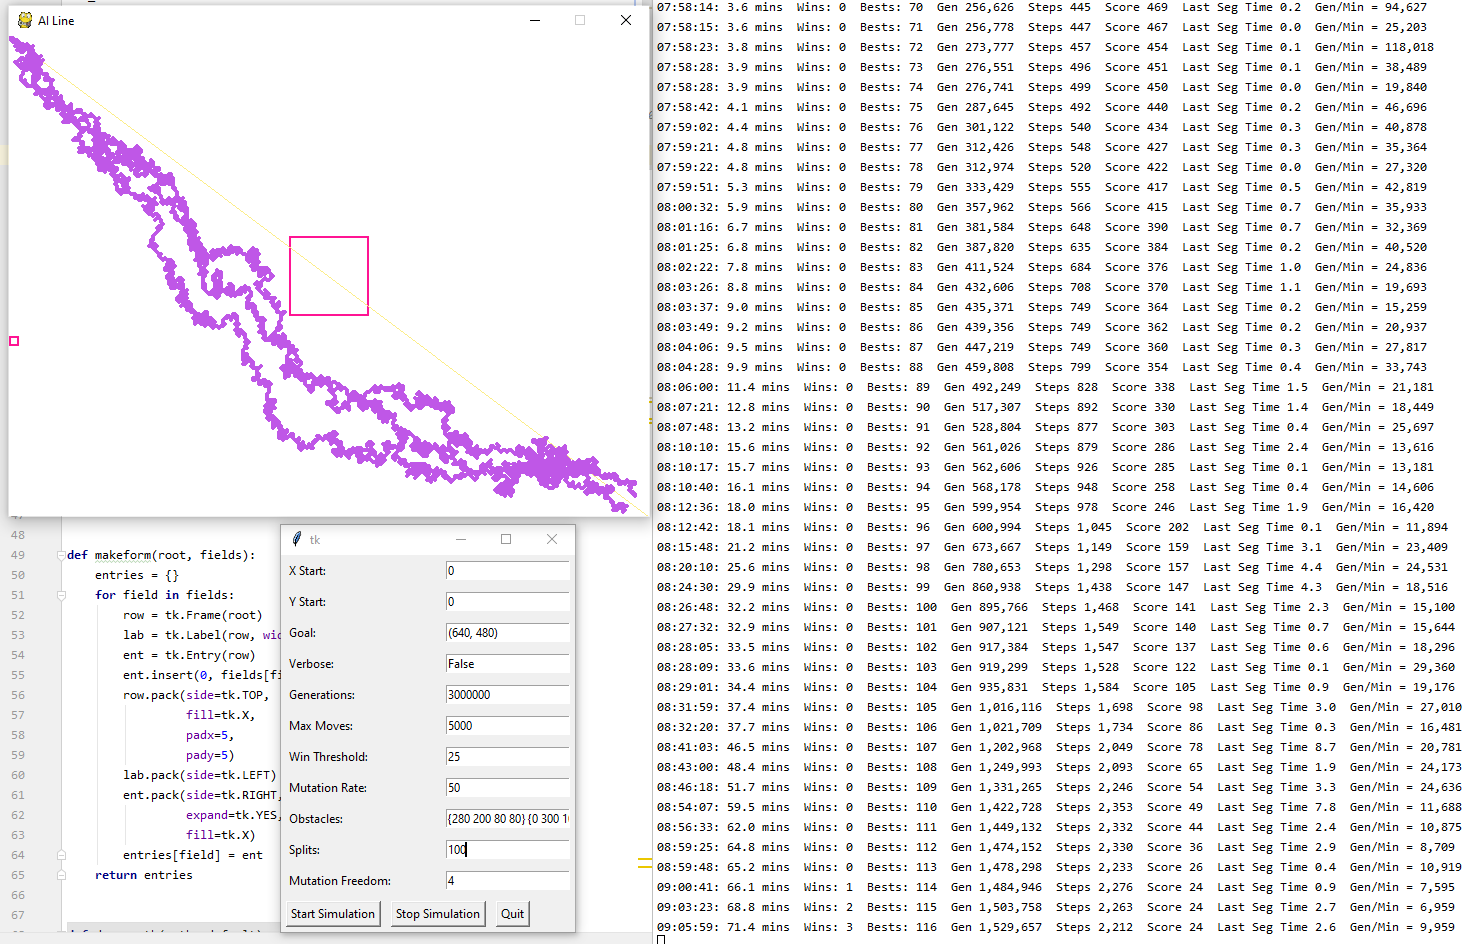
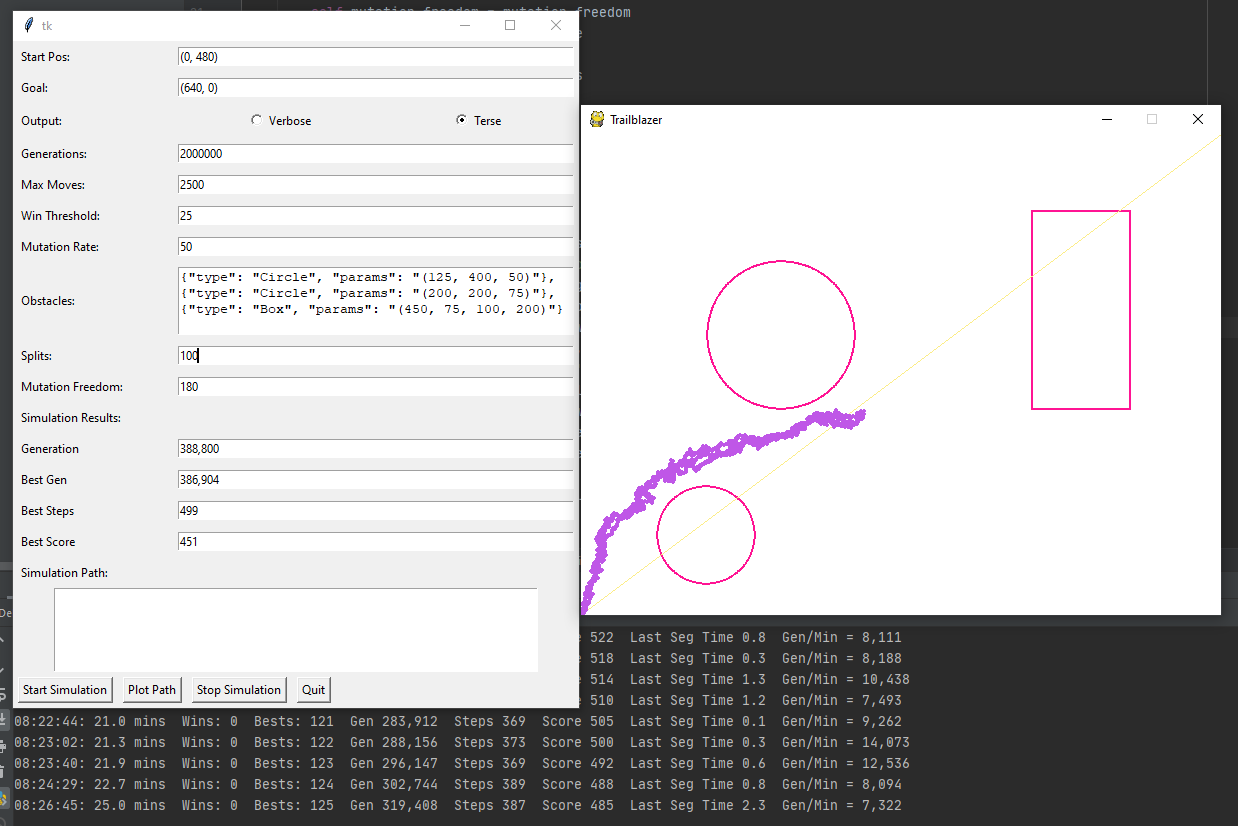
Save obstacles as objects as created Use tk library collidepoint(position) to determine if object is hit

diff --git a/models.py b/models.py
@@ -22,8 +22,10 @@ class Default:
         self.step_distance = step_distance
         self.circle_size = circle_size
         self.output_fields = output_fields
+        self.obstacle_objects = []
 
     def reset_screen(self):
+        self.obstacle_objects = []
         self.screen.fill(Color().WHITE)
 
         if self.obstacles:
@@ -31,12 +33,13 @@ class Default:
                 if obstacle['type'] == 'Box':
                     left, top, width, height = obstacle['params']
                     inner = (left + 2, top + 2, width - 4, height - 4)
-                    draw.rect(self.screen, Color().PINK, obstacle['params'])
+                    obstacle_object = draw.rect(self.screen, Color().PINK, obstacle['params'])
                     draw.rect(self.screen, Color().WHITE, inner)
                 elif obstacle['type'] == 'Circle':
                     x, y, radius = obstacle['params']
-                    draw.circle(self.screen, Color().PINK, (x, y), radius)
+                    obstacle_object = draw.circle(self.screen, Color().PINK, (x, y), radius)
                     draw.circle(self.screen, Color().WHITE, (x, y), radius - 2)
+                self.obstacle_objects.append(obstacle_object)
 
         draw.line(self.screen, Color().YELLOW, self.start_position, self.goal, 1)
 

diff --git a/circle.py b/circle.py
@@ -49,17 +49,10 @@ class Circle:
                 self.position[1] < 0 or self.position[1] > default.screen_height:
             return True
 
-        # look into RECT.collidepoint(x,y) for easier collission detecting
-        # after that works, define OBJECTS are a true JSON object with diff types, i.e. circle, polygon, etc
-        if default.obstacles:
-            for obstacle in default.obstacles['obstacles']:
-                if obstacle['type'] == 'Box':
-                    left, top, width, height = obstacle['params']
-                    if left <= self.position[0] <= left + width and top <= self.position[1] <= top + height:
-                        return True
-                elif obstacle['type'] == 'Circle':
-                    # free pass until collision detection enabled
-                    x = 1
+        if default.obstacle_objects:
+            for obstacle in default.obstacle_objects:
+                if obstacle.collidepoint(self.position):
+                    return True
 
         return False
 

diff --git a/trailblazer.py b/trailblazer.py
@@ -23,7 +23,7 @@ MUTATION_RATE = 50
 SPLITS = 50
 MUTATION_FREEDOM = 180
 
-OBSTACLES = '{"type": "Box", "params": "(280, 200, 80, 80)"}, {"type": "Circle", "params": "(100, 100, 25)"}'
+OBSTACLES = '{"type": "Circle", "params": "(125, 400, 50)"}, {"type": "Circle", "params": "(200, 200, 75)"}, {"type": "Box", "params": "(450, 75, 100, 200)"}'
 
 STEP_DISTANCE = 2
 CIRCLE_SIZE = 2

diff --git a/README.md b/README.md
@@ -32,13 +32,17 @@ The Stop Simulation button is non-functional at this time.
 * ~~Position~~
   * ~~Calculate movement mathematically (i.e. `sin()`) rather than pure STEP increments~~
   * ~~Store float position, display int~~
-* Obstacles (currently Boxes):
+* Obstacles ~~(currently Boxes)~~:
   * ~~Parse box/obstacles properly~~
-  * Use pygame collision detection rather than if-checking coordinates
+  * ~~Use pygame collision detection rather than if-checking coordinates~~
   * ~~Change Obstacle type to JSON~~
   * Allow for more object shapes
     * ~~Circle~~
+    * Ellipse
+    * Arc
     * Polygon
+    * Line
+
 * Segmentation
   * Today:
     * Segment is defined as `generations/splits`
@@ -67,8 +71,8 @@ The Stop Simulation button is non-functional at this time.
     * ~~Radio buttons (T/F)~~
     * ~~Starting position tuple not X and Y~~
     * Data validation before submission
-  * Output
-    * Add dashboard element
+  * ~~Output~~
+    * ~~Add dashboard element~~
       * ~~Display current generation~~
       * ~~Display current best score & its generation~~
       * Display details of current best path (turns)
